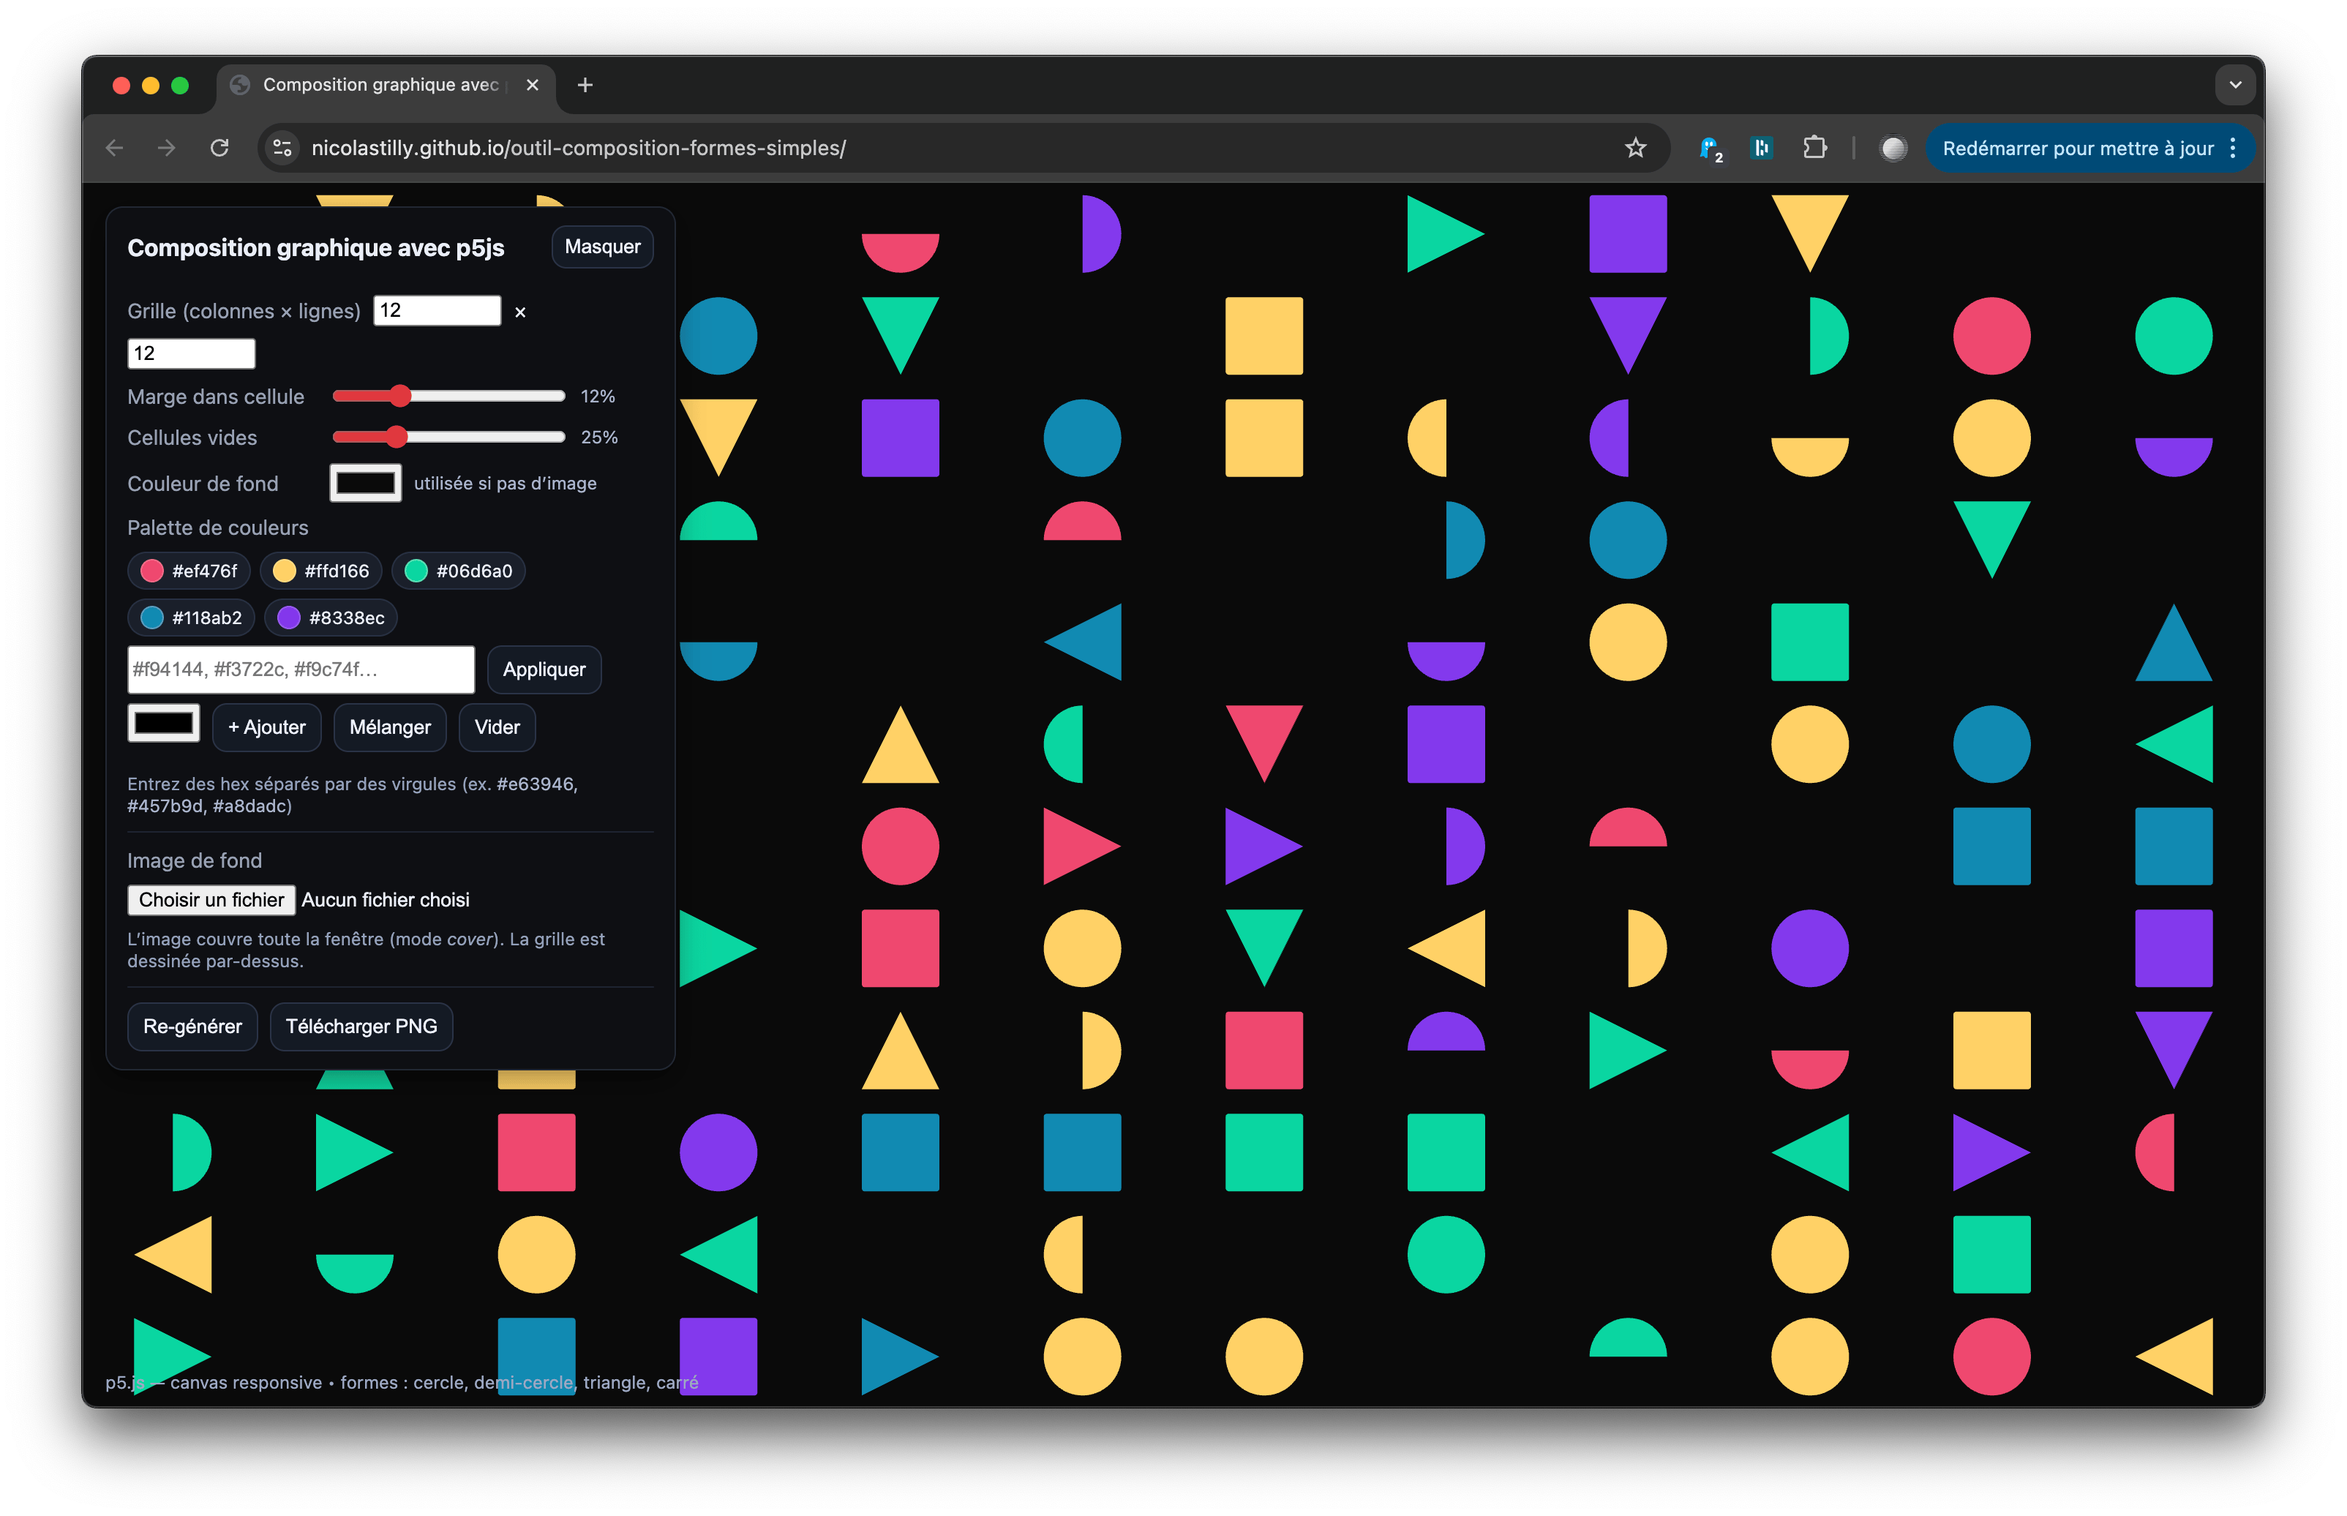
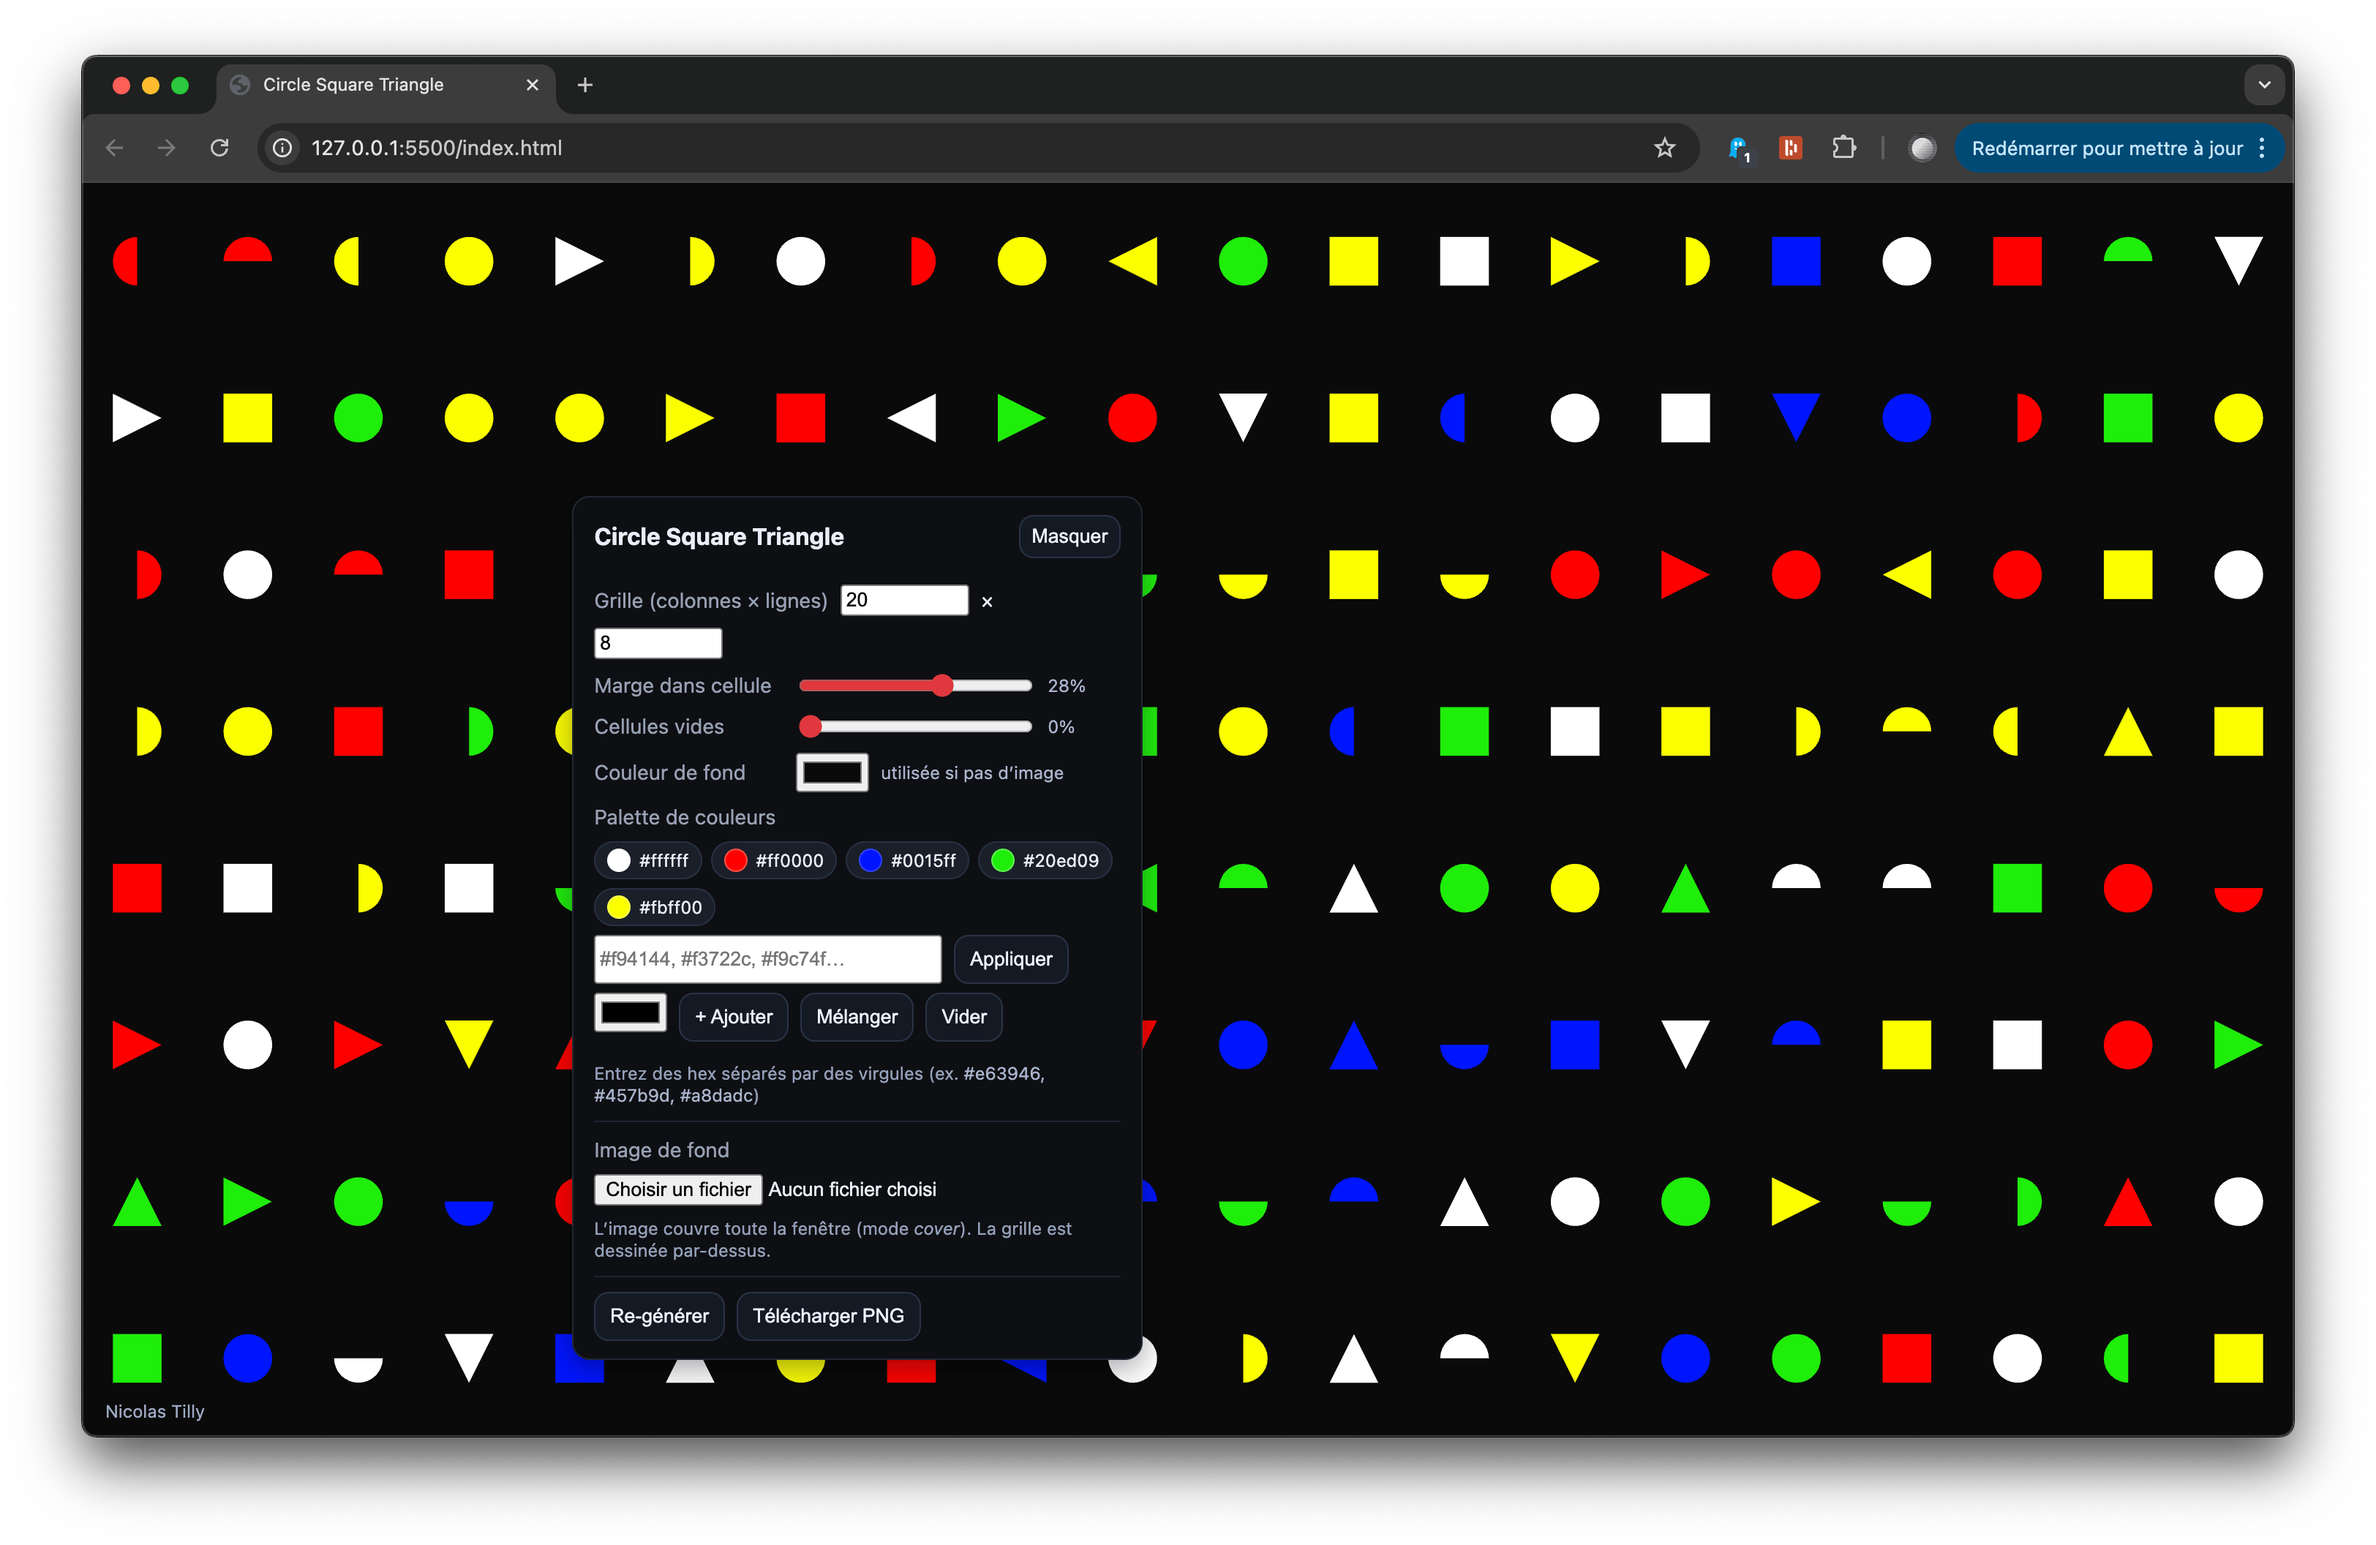
change initial colors palette

diff --git a/sketch.js b/sketch.js
@@ -7,7 +7,7 @@ let params = {
   paddingPct: 12,
   emptyProb: 0.25,
   bgColor: '#0a0a0a',
-  palette: ['#ef476f', '#ffd166', '#06d6a0', '#118ab2', '#8338ec'],
+  palette: ['#ffffff', '#ff0000', '#0015ff', '#20ed09', '#fbff00'],
 };
 
 let bgImg = null;     // image de fond (p5.Image)
